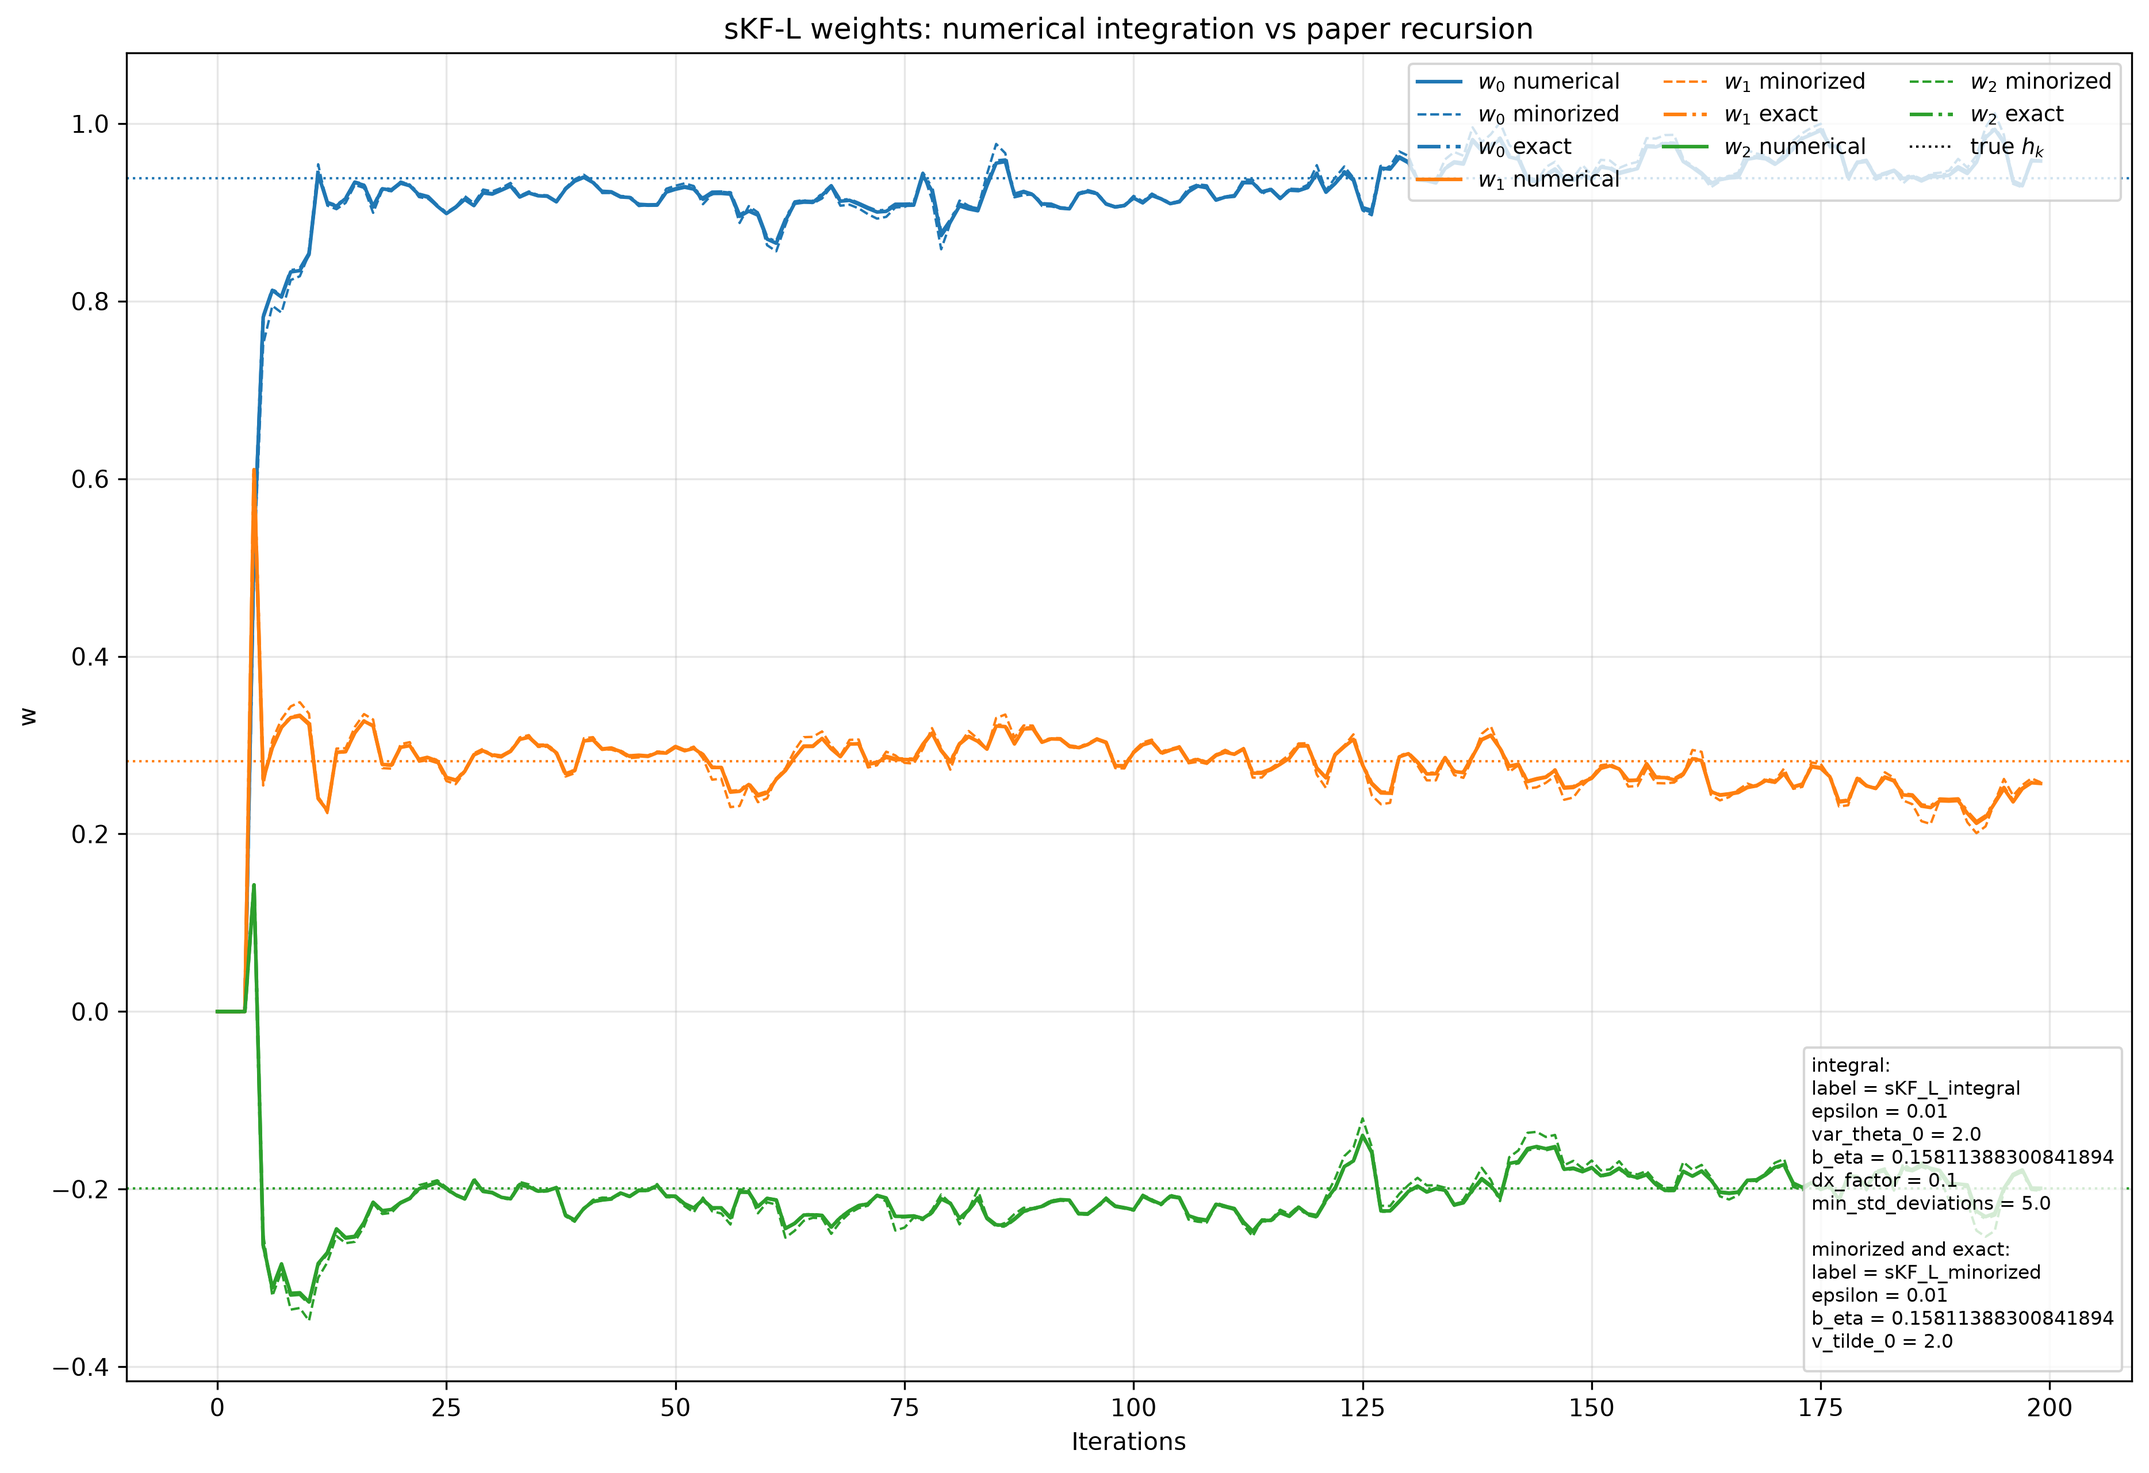
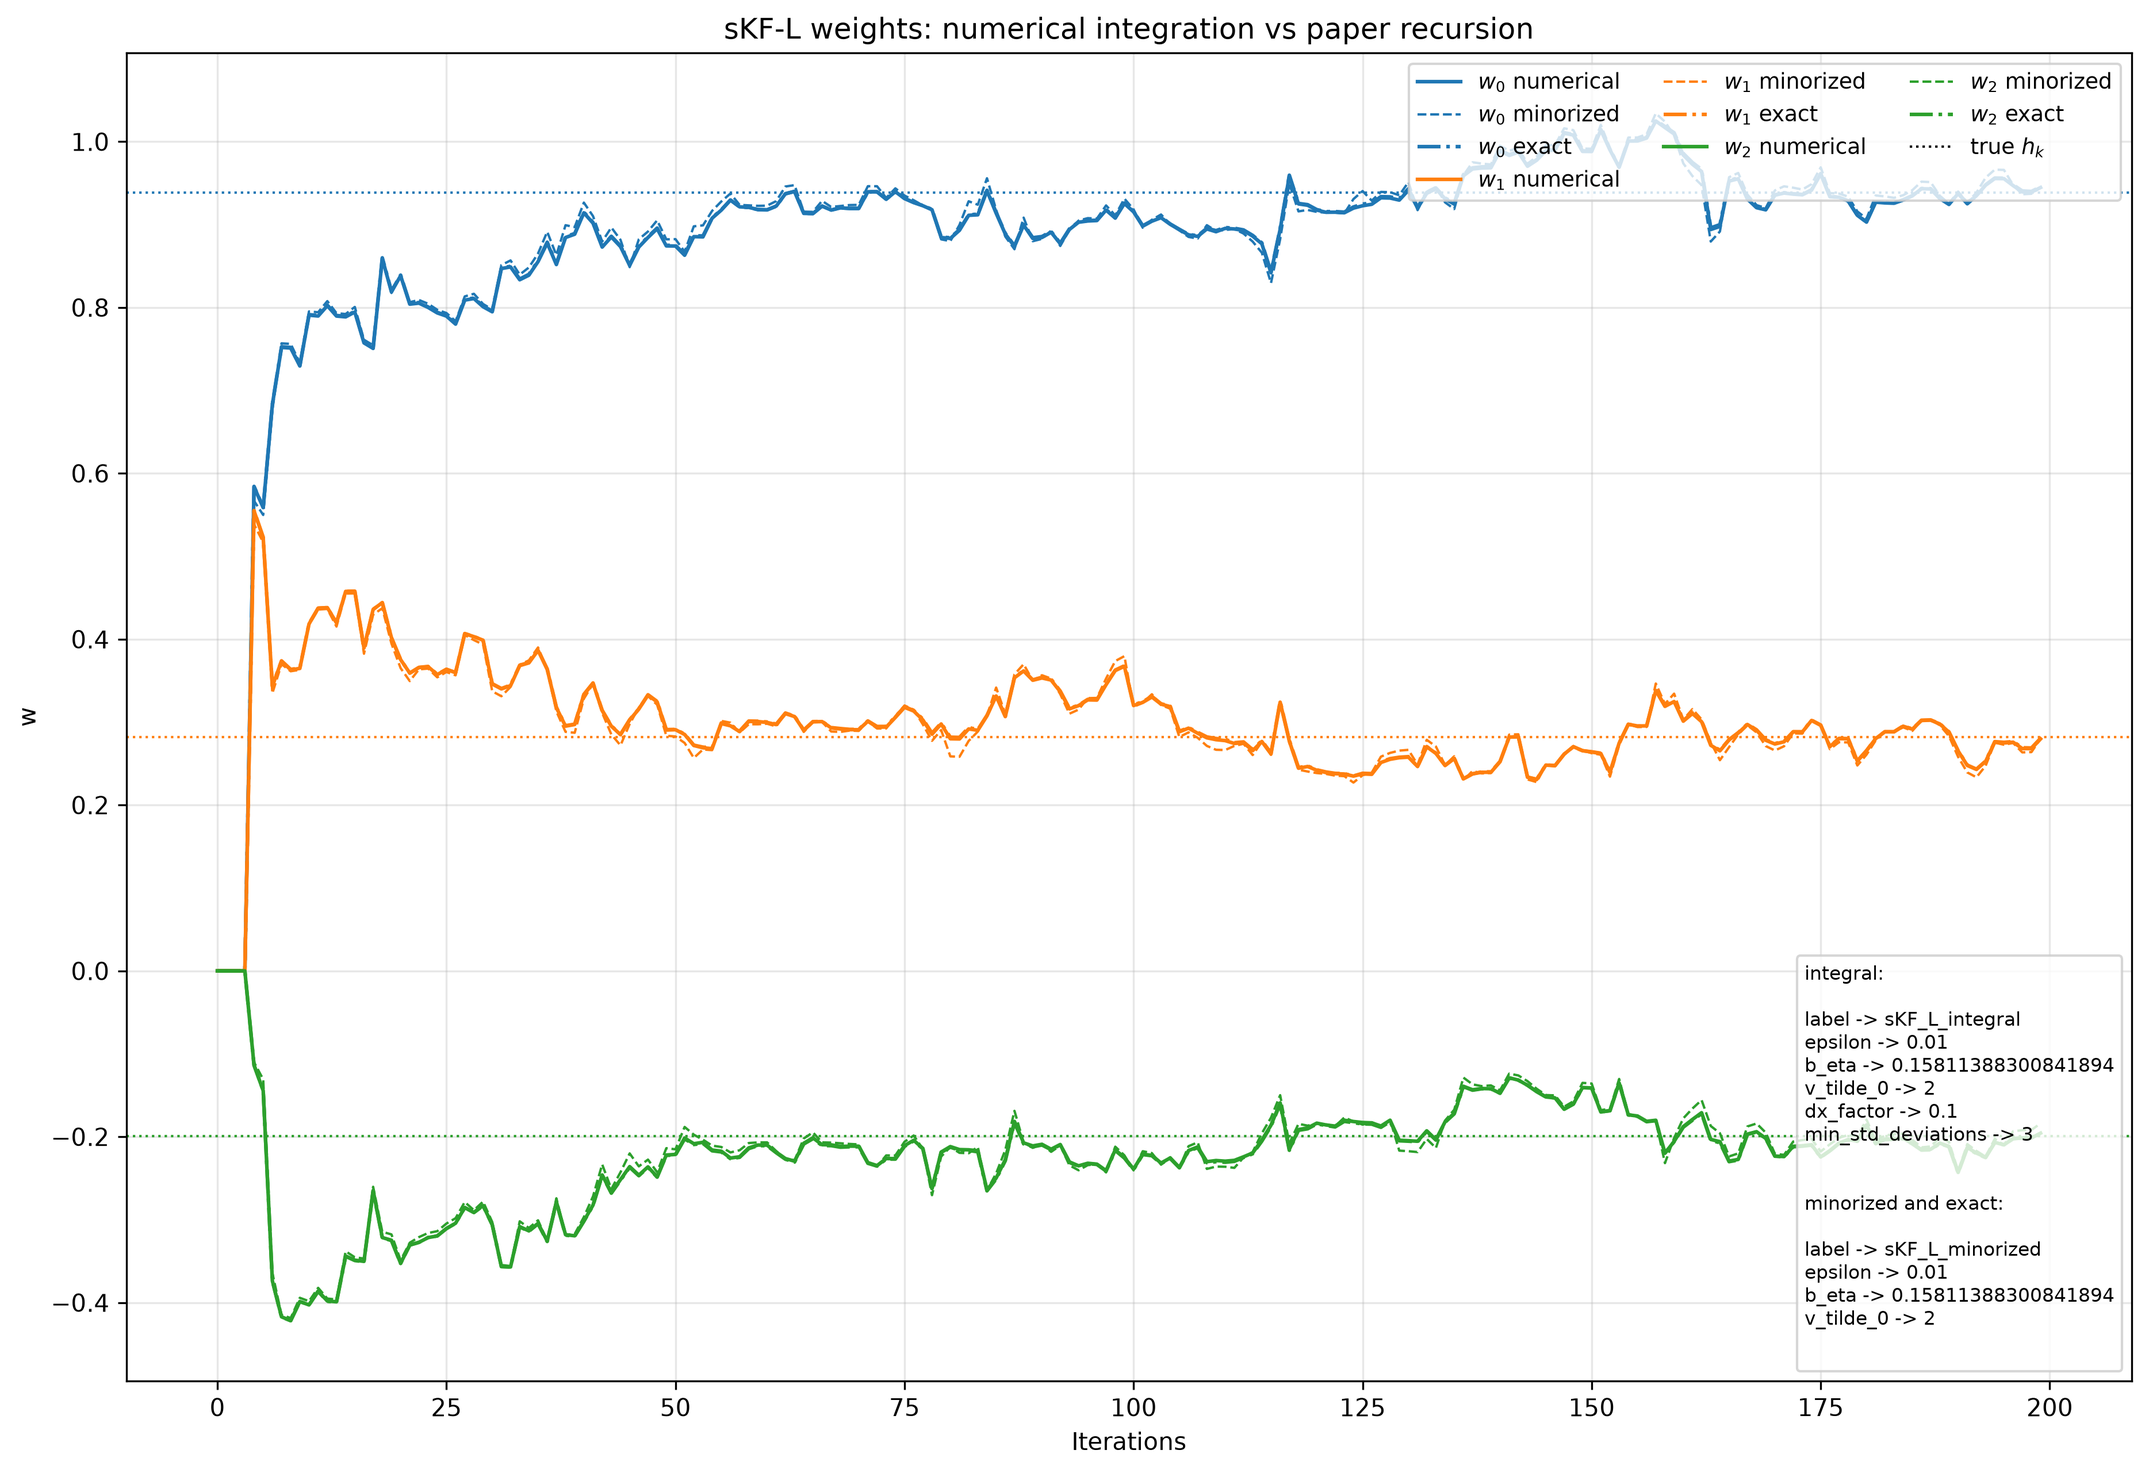
Implemented compatibility of every filter with the new MC_Simulation function.

diff --git a/filters.py b/filters.py
@@ -30,26 +30,26 @@ from numba.types import Array, complex128, float64
 from scipy.special import log_ndtr, logsumexp
 from collections import namedtuple
 
+from numpy.typing import NDArray
+
 GMVC_parameters = namedtuple('GMVC_parameters', ['label', 'mu', 'tau', 'p'])
 NLMS_parameters = namedtuple('NLMS_parameters', ['label', 'mu', 'delta'])
+
+sKF_parameters = namedtuple('sKF_parameters', ['label', 'epsilon', 'var_eta', 'v_tilde_0'])
+sKF_int_parameters = namedtuple('sKF_int_parameters', ['label', 'epsilon', 'var_eta', 'v_tilde_0', 'dx_factor', 'min_std_deviations'])
+
+sKF_L_parameters = namedtuple('sKF_L_parameters', ['label', 'epsilon', 'b_eta', 'v_tilde_0'])
+sKF_L_int_parameters = namedtuple('sKF_L_int_parameters', ['label', 'epsilon', 'b_eta', 'v_tilde_0', 'dx_factor', 'min_std_deviations'])
+
 filter_output = namedtuple('filter_output', ['y', 'e', 'h', 'v'])
 
-NLMS_params = np.dtype([("label", "U20"), # Unicode string up to 20 characters
-                        ("mu", "f8"),     # 64-bit floating-point number
-                        ("delta", "f8")   # 64-bit floating-point number
-                      ])
+std_env_parameters = namedtuple('std_env_parameters', ['ho', 'AR','var_v','var_x'])
+laplace_env_parameters = namedtuple('laplace_env_parameters', ['ho', 'AR', 'scale_v', 'var_x'])
 
-sKF_params = np.dtype([("label", "U20"), # Unicode string up to 20 characters
-                        ("epsilon", "f8"),     # 64-bit floating-point number
-                        ("var_eta", "f8"),   # 64-bit floating-point number
-                        ("v_tilde_0", "f8")   # 64-bit floating-point number
-                      ])
-
-sKF_L_params = np.dtype([("label", "U20"), # Unicode string up to 20 characters
-                        ("epsilon", "f8"),     # 64-bit floating-point number
-                        ("b_eta", "f8"),   # Escala de la distribución de Laplace
-                        ("v_tilde_0", "f8")   # 64-bit floating-point number
-                      ])
+# Tipos de array estáticos exigidos pelo objmode
+Complex1D = Array(complex128, 1, "C")
+Complex2D = Array(complex128, 2, "C")
+Float1D   = Array(float64, 1, "C")
 
 @njit(cache=True)
 def autocorr_matrix_estimate(signal, M = 4):
@@ -224,9 +224,9 @@ def GMVC_algorithm(N, x, d, h0, params):
 
 def sKF_algorithm(N, x, d, h0, parameters):
   h = h0
-  epsilon = parameters["epsilon"]
-  var_eta = parameters["var_eta"]
-  v_tilde_0 = parameters["v_tilde_0"]
+  epsilon = parameters.epsilon
+  var_eta = parameters.var_eta
+  v_tilde_0 = parameters.v_tilde_0
 
   # normalize x
   # regularization = 1e-3
@@ -258,13 +258,13 @@ def sKF_algorithm(N, x, d, h0, parameters):
       v = v * (1 - (v * norm) / (L * s)) 
 
   
-  return {'h': h_hist, 'y': y, 'e': e, 'v': v_hist}
+  return filter_output(y=y, e=e, h=h_hist, v=v_hist)
 
 def sKF_L_algorithm(N, x, d, h0, parameters):
     h = h0
-    epsilon = parameters["epsilon"]
-    b_eta = parameters["b_eta"]
-    v_tilde_0 = parameters["v_tilde_0"]
+    epsilon = parameters.epsilon
+    b_eta = parameters.b_eta
+    v_tilde_0 = parameters.v_tilde_0  
 
     # normalize x
     # regularization = 1e-3
@@ -295,7 +295,7 @@ def sKF_L_algorithm(N, x, d, h0, parameters):
             h = h + xtemp * (v * e[k]/s) # not h+= because it would mutate h0
             v = v * (1 - (v * norm) / (L * s)) 
 
-    return {'h': h_hist, 'y': y, 'e': e, 'v': v_hist}
+    return filter_output(y=y, e=e, h=h_hist, v=v_hist)
 
 """Exact scalar-variance filter for a Gaussian prior with a Laplacian likelihood.
 
@@ -353,9 +353,9 @@ _SIGN = np.array([1.0, -1.0])  # the two mixture branches, sigma = +1 and sigma 
 def sKF_L_exact_algorithm(N, x, d, h0, parameters):
     """sKF-L (exact), Section 5 of the draft. See the module docstring."""
     h = h0
-    epsilon = parameters["epsilon"]
-    b_eta = parameters["b_eta"]
-    v_tilde_0 = parameters["v_tilde_0"]
+    epsilon = parameters.epsilon
+    b_eta = parameters.b_eta
+    v_tilde_0 = parameters.v_tilde_0
 
     # No regularization of x here, matching sKF_algorithm and sKF_L_algorithm.
     # sKF_L_integral_algorithm does regularize internally, with
@@ -429,8 +429,56 @@ def sKF_L_exact_algorithm(N, x, d, h0, parameters):
             )
             v = v_tilde + D * norm / L
 
-    return {"h": h_hist, "y": y, "e": e, "v": v_hist}
+    return filter_output(y=y, e=e, h=h_hist, v=v_hist)
 
+@njit(cache=True)
+def _generate_normal_input_signal(N:int, AR: NDArray[np.float64], warm_up: bool = True):
+    # Determine the input signal x through a AR process
+    settling_time = AR_settling_time(AR, error = 0.001)*warm_up
+    x = np.random.randn(N + settling_time)
+    
+    # Generate the correlated signal
+    AR = AR/AR[0]
+    aux_Rxx = autocorr_matrix_calc(AR, 1, M = len(AR) - 1)
+    b = np.sqrt(1/aux_Rxx[0,0])
+    x = filter(AR, np.array([b]), x)[settling_time:]
+    
+    return x
+
+@njit(cache=True)
+def std_gaussian_behavior(N: int, params: std_env_parameters, warm_up: bool = True):
+    # AR process order and filter length
+    L = len(params.ho)
+
+    # Determine the noise signal
+    v = np.sqrt(params.var_v)*np.random.randn(N)
+
+    # Determine the input signal x through a AR process
+    x = _generate_normal_input_signal(N + L, params.AR, warm_up = warm_up)
+
+    # Determine the desired signal
+    d = v + np.convolve(params.ho, x, mode = 'full')[L:N+L]
+    x = x[L:N+L]
+
+    return params.ho, {'x': x, 'v': v, 'd': d}
+
+@njit(cache=True)
+def laplace_noise_behavior(N: int, params: laplace_env_parameters, warm_up: bool = True):
+#(N, ho, var_x, scale_v, AR, settling_time = 0):
+    # AR process order and filter length
+    L = len(params.ho)
+
+    # Determine the noise signal
+    v = np.random.laplace(loc=0.0, scale=params.scale_v, size=(N,))
+    
+    # Determine the input signal x through a AR process
+    x = _generate_normal_input_signal(N + L, params.AR, warm_up = warm_up)
+
+    # Determine the desired signal
+    d = v + np.convolve(params.ho, x, mode = 'full')[L:N+L]
+    x = x[L:N+L]
+
+    return params.ho, {'x': x, 'v': v, 'd': d}
 
 @njit(cache=True)
 def std_behavior(N, ho, var_x, var_v, AR, settling_time = 0):
@@ -457,28 +505,69 @@ def std_behavior(N, ho, var_x, var_v, AR, settling_time = 0):
   return {'x': x, 'v': v, 'd': d}
 
 @njit(cache=True)
-def laplacian_noise_behavior(N, ho, var_x, scale_v, AR, settling_time = 0):
-  # AR process order and filter length
-  P = len(AR)
-  L = len(ho)
+def _compute_MSD(h_hist, ho):
+    if ho.ndim == 1:
+        normalization_factor = np.dot(ho, ho)
+    else:
+        normalization_factor = np.diag(ho @ ho.T)
+    h_error = h_hist - ho
+    
+    MSD = np.zeros(h_error.shape[0])
+    for k in range(h_error.shape[0]):
+        MSD[k] = np.linalg.norm(h_error[k,:])**2
+        if ho.ndim == 1:
+            MSD[k] /= normalization_factor
+        else:
+            MSD[k] /= normalization_factor[k]
+    return MSD
 
-  # Determine the noise signal
-  v = np.random.laplace(loc=0.0, scale=scale_v, size=(N,))
-
-  # Determine the input signal x through a AR process
-  x = np.random.randn(N + settling_time + L)
-
-  # Generate the correlated signal
-  AR = AR/AR[0]
-  aux_Rxx = autocorr_matrix_calc(AR, 1, M = len(AR) - 1)
-  b = np.sqrt(var_x/aux_Rxx[0,0])
-  x = filter(AR, np.array([b]), x)[settling_time:]
-
-  # Determine the desired signal
-  d = v + np.convolve(ho, x, mode = 'full')[L:N+L]
-  x = x[L:N+L]
-
-  return {'x': x, 'v': v, 'd': d}
+def MC_Simulations(N, 
+                   NR,
+                   environment_parameters,
+                   environment,
+                   Algorithms,
+                   Parameters,
+                   h0,
+                   PBar = None):
+    L = len(h0)
+    N_Algorithms = len(Algorithms)
+    measure_init = lambda taps, N_iter: {'h': np.zeros((N_iter, taps)),
+                                         'J': np.zeros(N_iter),
+                                         'Jex': np.zeros(N_iter),
+                                         'MSD': np.zeros(N_iter),
+                                         'var': np.zeros((N_iter, taps))}
+  
+    measures = {Parameters[k].label: measure_init(L, N) for k in range(N_Algorithms)}
+  
+    for k in range(NR):
+        ho, signals = environment(N, environment_parameters)
+        x = signals['x']
+        d = signals['d']
+  
+        for c in range(N_Algorithms):
+            label = Parameters[c].label
+            algorithm_signals = Algorithms[c](N, x, d, h0, Parameters[c])
+            
+            measures[label]['h'] += algorithm_signals.h
+            measures[label]['J'] += algorithm_signals.e**2
+            measures[label]['Jex'] += (algorithm_signals.e - signals['v'])**2
+            measures[label]['MSD'] += _compute_MSD(algorithm_signals.h, ho)
+            measures[label]['var'] += algorithm_signals.v
+  
+        if not PBar is None:
+            PBar.update(1)
+        else:
+            print(f'Realization {k} out of {NR}')
+    
+    for k in range(N_Algorithms):
+        label = Parameters[k].label
+        measures[label]['h'] /= NR
+        measures[label]['J'] /= NR
+        measures[label]['Jex'] /= NR
+        measures[label]['var'] /= NR
+        measures[label]['MSD'] /= NR
+  
+    return measures
 
 def MC_Simulations_Modular(N, NR, ho, var_x, var_v, h0, Algorithms, Parameters, AR, PBar = None):
   L = len(h0)
@@ -556,21 +645,6 @@ def MC_Simulations_Modular_Variance(N, NR, ho, var_x, var_v, h0, Algorithms, Par
 
   return measures
 
-
-skf_int_params = np.dtype([("label", "U20"),  # Unicode string up to 20 characters
-                           ("epsilon", "f8"), # 64-bit floating-point number
-                           ("var_theta_0", "f8"),  # 64-bit floating-point number
-                           ("var_eta", "f8"), # 64-bit floating-point number
-                           ("dx_factor", "f8"),
-                           ("min_std_deviations", "f8")])
-
-skf_L_int_params = np.dtype([("label", "U20"),  # Unicode string up to 20 characters
-                           ("epsilon", "f8"), # 64-bit floating-point number
-                           ("var_theta_0", "f8"),  # 64-bit floating-point number
-                           ("b_eta", "f8"), # 64-bit floating-point number
-                           ("dx_factor", "f8"),
-                           ("min_std_deviations", "f8")])
-
 gaussian_params = np.dtype([("mean", "f8"),
                             ("variance", "f8")])
 laplacian_params = np.dtype([("mean", "f8"),
@@ -616,11 +690,6 @@ def fft_integral_convolve(f, g, dx):
         riemann_sum = scipy.signal.fftconvolve(f, g, mode='full')
 
     return dx * riemann_sum[input_len//2:3*input_len//2]
-
-# Tipos de array estáticos exigidos pelo objmode
-Complex1D = Array(complex128, 1, "C")
-Complex2D = Array(complex128, 2, "C")
-Float1D   = Array(float64, 1, "C")
 
 @njit(cache=True)
 def integral_convolve_from_base_pdf(full_signals,
@@ -675,7 +744,7 @@ def integral_convolve_from_base_pdf(full_signals,
       log_espectre_prod += -2j*np.pi*total_translation*freq_space/N_conv
       espectre_prod = np.exp(log_espectre_prod)
     else:
-      espectre_prod = espectres[0].copy()
+      espectre_prod = np.copy(espectres[0])
       for k in range(1, K):
           espectre_prod *= espectres[k]
       total_translation = J*center_sample + (translations @ freq_scalings)/dx
@@ -722,19 +791,19 @@ def _get_integration_range(relative_range,
 def sKF_integral_algorithm(N, x, d, w0, parameters):
   w_hist = np.zeros((N, len(w0))) # Nuevo
   var_theta_hist = np.zeros((N, len(w0))) # NUEVO !!!!
-  w = w0.copy()
+  w = np.copy(w0)
   L = len(w)
   regularization = 1e-3
   x_reg = np.sign(x)*(np.abs(x) + regularization)
 
-  scalar_var_theta = parameters["var_theta_0"]
+  scalar_var_theta = parameters.v_tilde_0
   var_theta = scalar_var_theta*np.ones((L,))
-  epsilon = parameters["epsilon"]
-  var_eta = parameters["var_eta"]
+  epsilon = parameters.epsilon
+  var_eta = parameters.var_eta
   eta_parameters = np.void((0, var_eta), dtype=gaussian_params)
 
   #dx = np.min([epsilon, var_eta])*parameters.dx_factor
-  relative_range = parameters["min_std_deviations"]
+  relative_range = parameters.min_std_deviations
 
   y = np.zeros((N,))
   e = np.zeros((N,))
@@ -746,15 +815,15 @@ def sKF_integral_algorithm(N, x, d, w0, parameters):
     y[k] = w @ xtemp
     e[k] = d[k] - y[k]
 
-    w_hist[k] = w.copy() # NUEVO
-    var_theta_hist[k] = scalar_var_theta.copy() # NUEVO
+    w_hist[k] = np.copy(w) # NUEVO
+    var_theta_hist[k] = np.copy(scalar_var_theta) # NUEVO
     if k >= L:
       var_tilde = scalar_var_theta + epsilon
       worst_var_zeta = var_eta + (np.linalg.norm(xtemp)**2)*var_tilde
       mean_S = y[k] - w*xtemp
 
       #print(f"Var_tilde: {var_tilde}; Var_eta: {var_eta}; Worst Var_zeta: {worst_var_zeta}")
-      dx = np.sqrt(np.min([var_tilde, var_eta]))*parameters["dx_factor"]
+      dx = np.sqrt(np.min([var_tilde, var_eta]))*parameters.dx_factor
       int_range = _get_integration_range(relative_range,
                            var_tilde,
                            worst_var_zeta,
@@ -819,23 +888,23 @@ def sKF_integral_algorithm(N, x, d, w0, parameters):
       scalar_var_theta = np.mean(var_theta)
       # var_theta_hist[k] = var_theta
 
-  return {'h': w_hist, 'y': y, 'e': e, 'v': var_theta_hist}
+  return filter_output(y=y, e=e, h=w_hist, v=var_theta_hist)
 
 def sKF_L_integral_algorithm(N, x, d, w0, parameters):
-  w = w0.copy()
+  w = np.copy(w0)
   L = len(w)
 
   w_hist = np.zeros((N, len(w0)))
   var_theta_hist = np.zeros((N, len(w0)))
 
-  scalar_var_theta = parameters["var_theta_0"]
+  scalar_var_theta = parameters.v_tilde_0
   var_theta = scalar_var_theta*np.ones((L,))
-  epsilon = parameters["epsilon"]
-  b_eta = parameters["b_eta"]
+  epsilon = parameters.epsilon
+  b_eta = parameters.b_eta
   var_eta = 2*b_eta**2
   eta_parameters = np.void((0, b_eta), dtype=laplacian_params)
 
-  relative_range = parameters["min_std_deviations"]
+  relative_range = parameters.min_std_deviations
 
   y = np.zeros((N,))
   e = np.zeros((N,))
@@ -850,15 +919,15 @@ def sKF_L_integral_algorithm(N, x, d, w0, parameters):
     y[k] = w @ xtemp
     e[k] = d[k] - y[k]
 
-    w_hist[k] = w.copy()
-    var_theta_hist[k] = scalar_var_theta.copy()
+    w_hist[k] = np.copy(w)
+    var_theta_hist[k] = np.copy(scalar_var_theta)
     if k >= L:
       var_tilde = scalar_var_theta + epsilon
       worst_var_zeta = var_eta + (np.linalg.norm(xtemp)**2)*var_tilde
       mean_S = y[k] - w*xtemp
 
       #print(f"Var_tilde: {var_tilde}; Var_eta: {var_eta}; Worst Var_zeta: {worst_var_zeta}")
-      dx = np.sqrt(np.min([var_tilde, var_eta]))*parameters["dx_factor"]
+      dx = np.sqrt(np.min([var_tilde, var_eta]))*parameters.dx_factor
       int_range = _get_integration_range(relative_range,
                            var_tilde,
                            worst_var_zeta,
@@ -918,4 +987,4 @@ def sKF_L_integral_algorithm(N, x, d, w0, parameters):
       #print("----------------------------------------------------")
       scalar_var_theta = np.mean(var_theta)
 
-  return {'h': w_hist, 'y': y, 'e': e, 'v': var_theta_hist}
+  return filter_output(y=y, e=e, h=w_hist, v=var_theta_hist)
